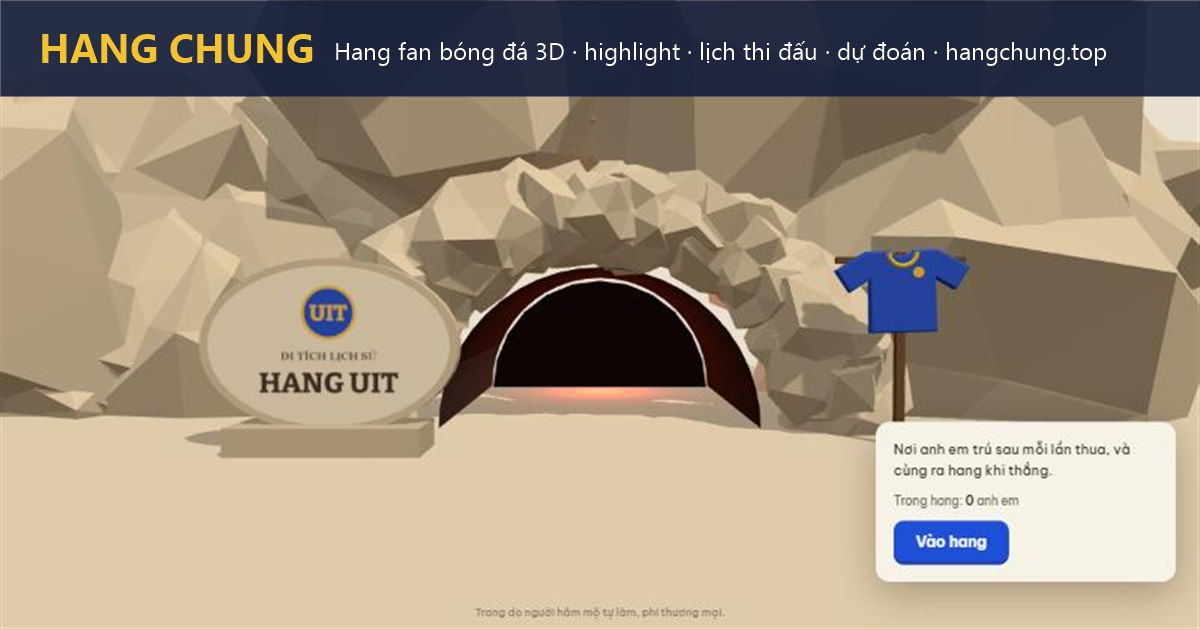
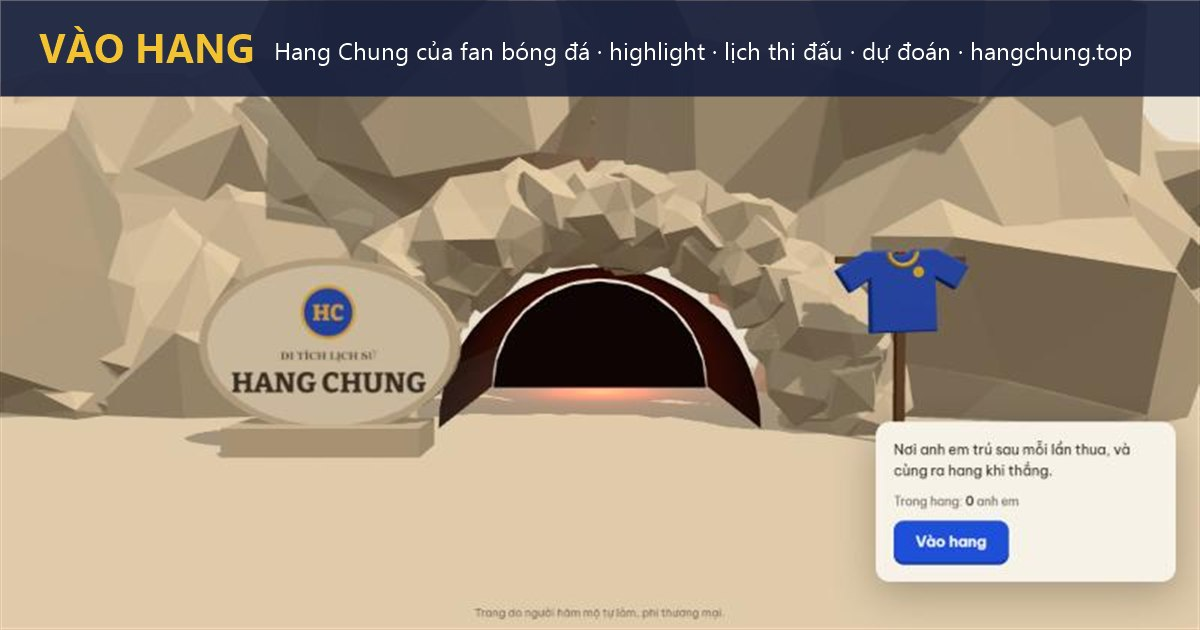
feat: rename in-game brand to Hang Chung, refresh share image

diff --git a/src/landing.js b/src/landing.js
@@ -97,7 +97,7 @@ function buildScene(scene) {
     g.font = '800 70px Bitter, Georgia, serif';
     g.textAlign = 'center';
     g.textBaseline = 'middle';
-    g.fillText(BRAND.signMain.split(' ').pop().slice(0, 3), w / 2, 155);
+    g.fillText(BRAND.badge, w / 2, 155);
     g.fillStyle = '#5b5148';
     g.font = '700 34px Bitter, Georgia, serif';
     g.fillText(BRAND.signTop, w / 2, 292);
@@ -154,7 +154,7 @@ function nameDialog(root, onSubmit) {
   name.addEventListener('input', refresh);
   num.addEventListener('input', refresh);
 
-  // Chọn CLB cổ vũ: quyết định màu áo nhân vật trong hang. Bỏ trống = áo Hang Uit.
+  // Chọn CLB cổ vũ: quyết định màu áo nhân vật trong hang. Bỏ trống = áo Hang Chung.
   let club = CLUBS[saved.club] ? saved.club : '';
   const clubBtns = [['', 'Không chọn'], ...CLUB_ORDER.map((k) => [k, CLUBS[k].name])].map(([key, label]) => {
     const dot = el('canvas', { width: 40, height: 40, className: 'club-kit' });

diff --git a/src/avatar.js b/src/avatar.js
@@ -3,7 +3,7 @@ import { BRAND, CLUBS } from './config.js';
 
 const SKIN = '#e8b896';
 
-// Áo mặc định khi không chọn CLB: màu thương hiệu Hang Uit.
+// Áo mặc định khi không chọn CLB: màu thương hiệu Hang Chung.
 const DEFAULT_KIT = {
   body: BRAND.jersey.body,
   sleeve: BRAND.jersey.body,
@@ -12,7 +12,7 @@ const DEFAULT_KIT = {
   number: BRAND.jersey.number,
 };
 
-/** Bộ màu áo theo mã CLB (liverpool, barcelona…); mã lạ hoặc rỗng → áo Hang Uit. */
+/** Bộ màu áo theo mã CLB (liverpool, barcelona…); mã lạ hoặc rỗng → áo Hang Chung. */
 export function kitOf(club) {
   return CLUBS[club]?.kit ?? DEFAULT_KIT;
 }

diff --git a/src/config.js b/src/config.js
@@ -1,8 +1,9 @@
 // Mọi thứ mang tính "thương hiệu" nằm ở đây để đổi nhanh.
 export const BRAND = {
-  name: 'Hang Uit',
+  name: 'Hang Chung',
   signTop: 'DI TÍCH LỊCH SỬ',
-  signMain: 'HANG UIT',
+  signMain: 'HANG CHUNG',
+  badge: 'HC', // chữ trong huy hiệu tròn trên biển di tích
   tagline: 'Nơi anh em trú sau mỗi lần thua, và cùng ra hang khi thắng.',
   disclaimer: 'Trang do người hâm mộ tự làm, phi thương mại.',
   roomName: 'Hang chung',

diff --git a/server/index.js b/server/index.js
@@ -373,5 +373,5 @@ refreshPolls().catch(() => {});
 setInterval(() => refreshPolls().catch(() => {}), 60 * 1000);
 
 server.listen(PORT, () => {
-  console.log(`Hang Uit server: http://localhost:${PORT}  (ws: /ws)`);
+  console.log(`Hang Chung server: http://localhost:${PORT}  (ws: /ws)`);
 });

diff --git a/README.md b/README.md
@@ -1,4 +1,4 @@
-# Hang Uit
+# Hang Chung (hangchung.top)
 
 Sân chơi 3D nhiều người chơi trên trình duyệt: vào hang, đi lại, chat, đấm nhau, ăn mừng, bình chọn.
 
